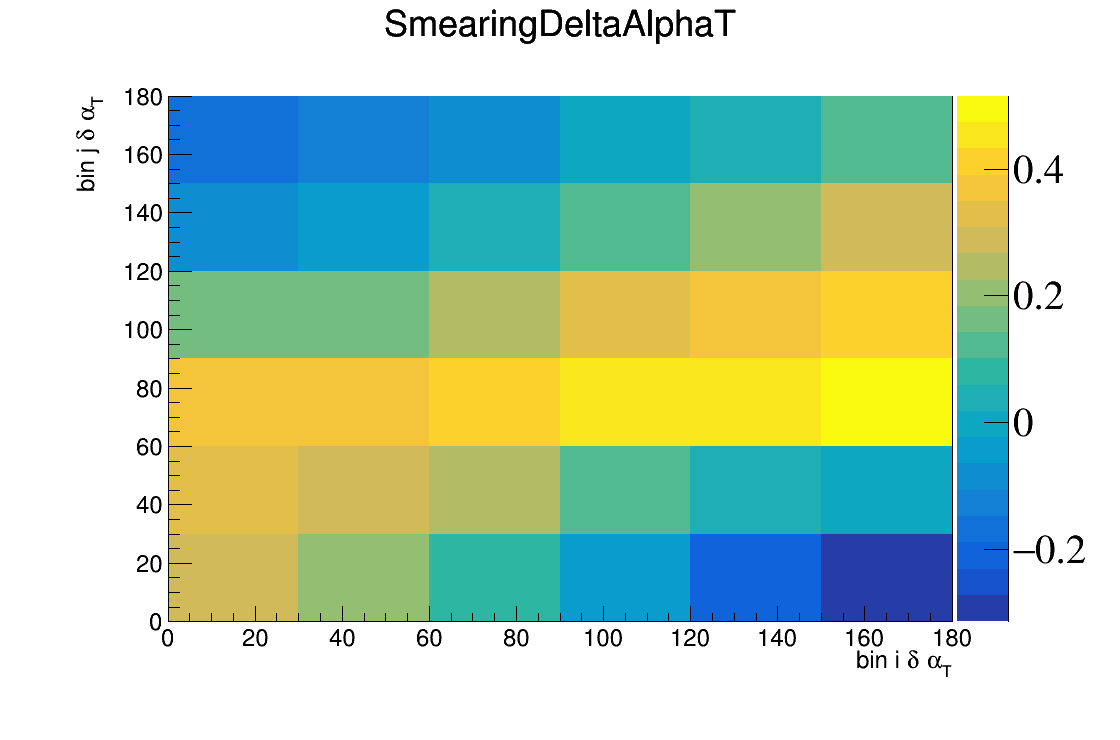
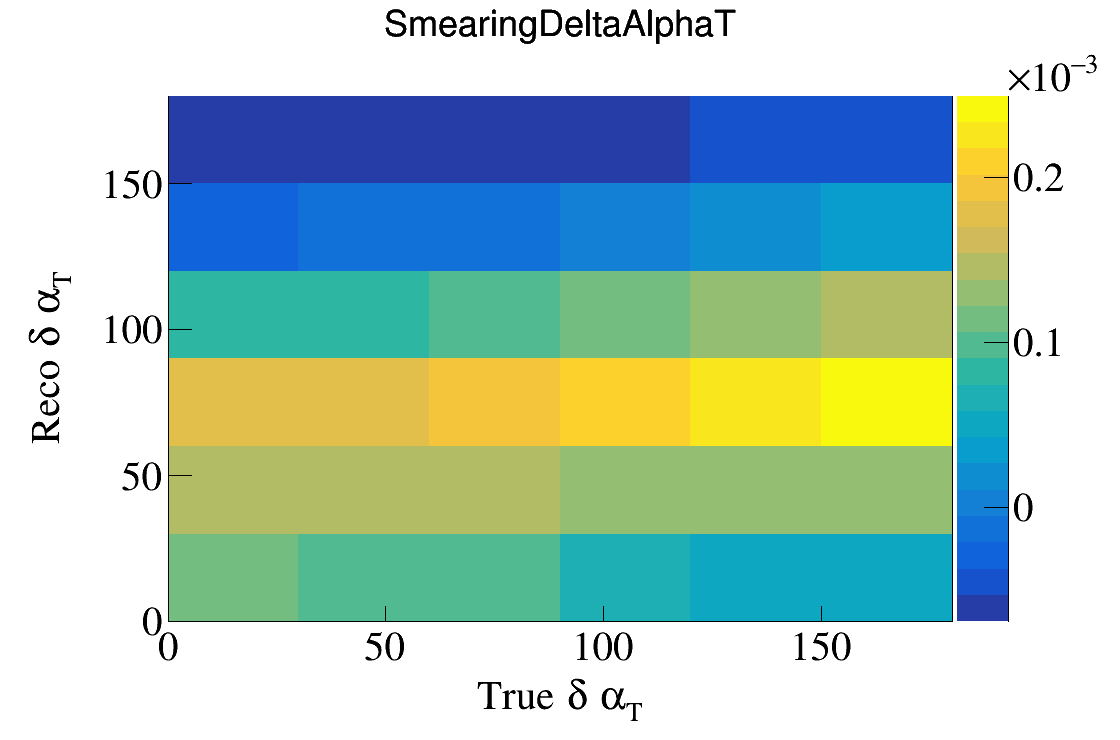
Edit style for smear plots

diff --git a/CAFAnaAnalysis/Scripts/Unfold.cpp b/CAFAnaAnalysis/Scripts/Unfold.cpp
@@ -178,16 +178,30 @@ void Unfold() {
         double SmearMin = SmearMatrixHisto->GetMinimum();
         double SmearMax = SmearMatrixHisto->GetMaximum();
         SmearMatrixHisto->GetZaxis()->SetRangeUser(SmearMin,SmearMax);
-        TotalCovHist->GetZaxis()->CenterTitle();
+        SmearMatrixHisto->GetZaxis()->CenterTitle();
         SmearMatrixHisto->GetZaxis()->SetTitleFont(FontStyle);
         SmearMatrixHisto->GetZaxis()->SetTitleSize(TextSize);
         SmearMatrixHisto->GetZaxis()->SetLabelFont(FontStyle);
         SmearMatrixHisto->GetZaxis()->SetLabelSize(TextSize);
-        SmearMatrixHisto->GetZaxis()->SetNdivisions(6);
-        SmearMatrixHisto->GetXaxis()->SetTitle(SmearMatrixHisto->GetXaxis()->GetTitle());
-        SmearMatrixHisto->GetYaxis()->SetTitle(SmearMatrixHisto->GetYaxis()->GetTitle());
-        SmearMatrixHisto->GetXaxis()->SetTitle("bin i " + (TString)VarLabels.at(iPlot));
-        SmearMatrixHisto->GetYaxis()->SetTitle("bin j " + (TString)VarLabels.at(iPlot));
+        SmearMatrixHisto->GetZaxis()->SetNdivisions(5);
+
+        SmearMatrixHisto->GetXaxis()->SetTitle("True " + (TString)VarLabels.at(iPlot));
+        SmearMatrixHisto->GetXaxis()->CenterTitle();
+        SmearMatrixHisto->GetXaxis()->SetTitleOffset(1.1);
+        SmearMatrixHisto->GetXaxis()->SetTitleFont(FontStyle);
+        SmearMatrixHisto->GetXaxis()->SetTitleSize(TextSize);
+        SmearMatrixHisto->GetXaxis()->SetLabelFont(FontStyle);
+        SmearMatrixHisto->GetXaxis()->SetLabelSize(TextSize);
+        SmearMatrixHisto->GetXaxis()->SetNdivisions(5);
+
+        SmearMatrixHisto->GetYaxis()->SetTitle("Reco " + (TString)VarLabels.at(iPlot));
+        SmearMatrixHisto->GetYaxis()->CenterTitle();
+        SmearMatrixHisto->GetYaxis()->SetTitleOffset(1.1);
+        SmearMatrixHisto->GetYaxis()->SetTitleFont(FontStyle);
+        SmearMatrixHisto->GetYaxis()->SetTitleSize(TextSize);
+        SmearMatrixHisto->GetYaxis()->SetLabelFont(FontStyle);
+        SmearMatrixHisto->GetYaxis()->SetLabelSize(TextSize);
+        SmearMatrixHisto->GetYaxis()->SetNdivisions(5);
 
         PlotCanvas->cd();
         SmearMatrixHisto->Draw("colz");
